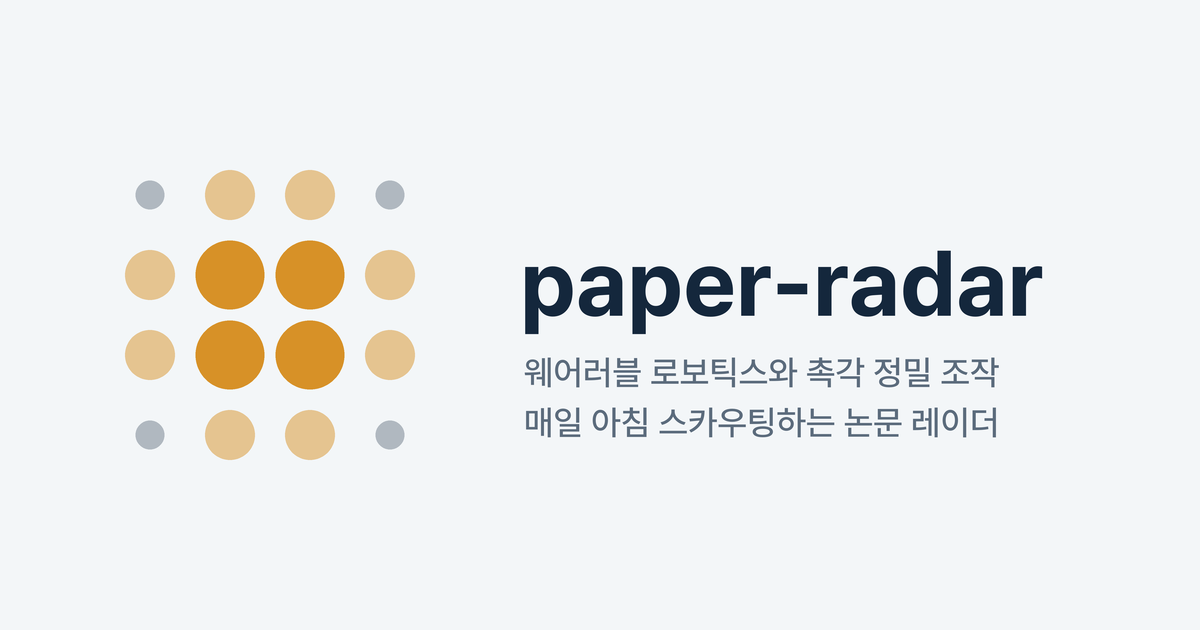
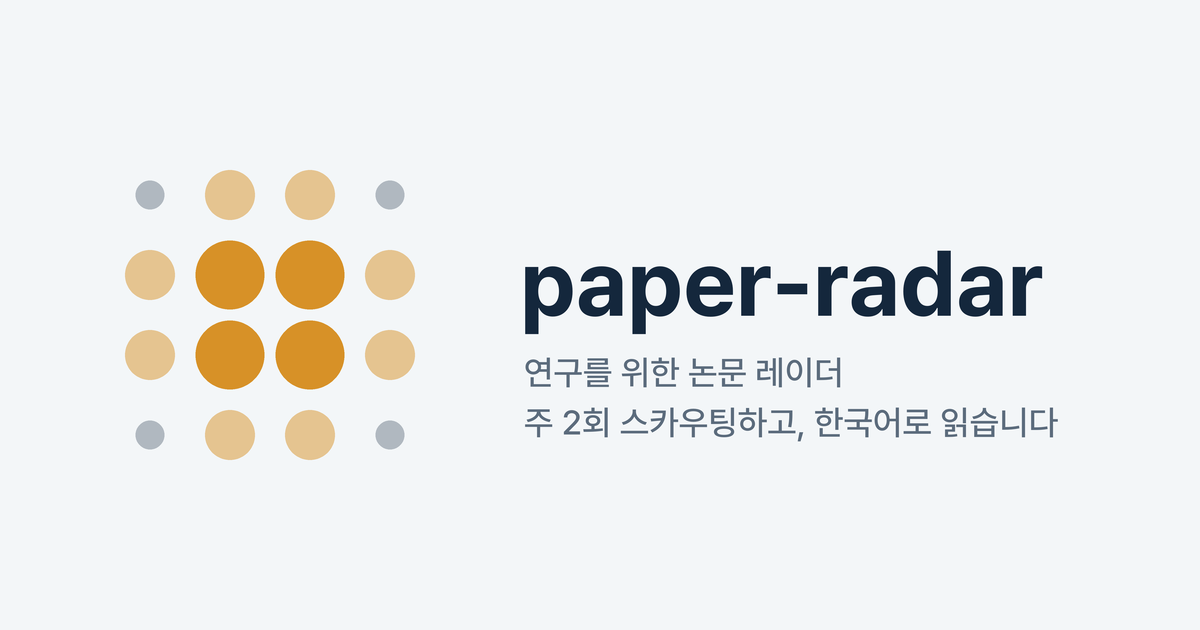
docs: say the scout runs twice a week
The routine now fires on Wednesday and Saturday at 07:00 KST instead of
every day: arXiv announces Monday to Friday, so a daily run mostly found
nothing new past its de-duplication, and two runs a week each gather
three or four days of papers while the 14-day window still overlaps.

- `assets/build-art.py`: the heroes and `own.svg` say twice a week
- `README.md`, `README.ko.md`: the badge, the alt text and the
  what-this-is section name Wednesday and Saturday
- `site/builder/assets/og.png`: the card's lines match the hero

Changed region(s): [[0.4317, 0.5429, 0.8942, 0.6937]]

diff --git a/assets/build-art.py b/assets/build-art.py
@@ -144,16 +144,16 @@ def hero(name_line: str, sub: str, count: str, label: str, button: str, bw: int)
 
 
 def hero_en() -> str:
-    return hero("A literature radar for research.", "Scouted every morning, read in Korean.",
+    return hero("A literature radar for research.", "Scouted twice a week, read in Korean.",
                 "Dozens of new papers a day; a few pressed for you.",
-                "paper-radar — a literature radar for research, scouted every morning and read in Korean. "
+                "paper-radar — a literature radar for research, scouted twice a week and read in Korean. "
                 "Open the reading site.", "Open the reading site", 196)
 
 
 def hero_ko() -> str:
-    return hero("연구를 위한 논문 레이더.", "매일 아침 스카우팅하고, 한국어로 읽습니다.",
+    return hero("연구를 위한 논문 레이더.", "주 2회 스카우팅하고, 한국어로 읽습니다.",
                 "하루 수십 편 가운데, 몇 편만 눌러 둡니다.",
-                "paper-radar — 연구를 위한 논문 레이더. 매일 아침 스카우팅하고, 한국어로 읽습니다. "
+                "paper-radar — 연구를 위한 논문 레이더. 주 2회 스카우팅하고, 한국어로 읽습니다. "
                 "읽기 사이트 열기.", "읽기 사이트 열기", 156)
 
 
@@ -173,7 +173,7 @@ OWN_CSS = f"""
     .wire  {{ fill: none; stroke: ${{FRAME}}; stroke-width: 1.4; stroke-dasharray: 4 5; }}
     .head  {{ fill: ${{FRAME}}; }}"""
 
-FOLDERS = [("scouting/", "every morning"), ("analysis/", "on request"),
+FOLDERS = [("scouting/", "Wed and Sat"), ("analysis/", "on request"),
            ("comparison/", "on request")]
 
 

diff --git a/README.ko.md b/README.ko.md
@@ -1,6 +1,6 @@
 <div align="center">
 
-<a href="https://lastnamesong.github.io/paper-radar/"><picture><source media="(prefers-color-scheme: dark)" srcset="assets/hero-ko-dark.svg"><img src="assets/hero-ko.svg" width="880" alt="paper-radar — 연구를 위한 논문 레이더. 매일 아침 스카우팅하고, 한국어로 읽습니다."></picture></a>
+<a href="https://lastnamesong.github.io/paper-radar/"><picture><source media="(prefers-color-scheme: dark)" srcset="assets/hero-ko-dark.svg"><img src="assets/hero-ko.svg" width="880" alt="paper-radar — 연구를 위한 논문 레이더. 주 2회 스카우팅하고, 한국어로 읽습니다."></picture></a>
 
 [English](README.md) · **한국어**
 
@@ -12,7 +12,7 @@
 
 ![P0](https://img.shields.io/badge/P0-wearables_%26_biomechanics-2E8B7A?style=flat-square)
 ![P1](https://img.shields.io/badge/P1-tactile_%26_dexterous_manipulation-7A5CC2?style=flat-square)
-![Scouting](https://img.shields.io/badge/scouting-daily_07%3A00_KST-555?style=flat-square)
+![Scouting](https://img.shields.io/badge/scouting-Wed_%26_Sat_07%3A00_KST-555?style=flat-square)
 ![Language](https://img.shields.io/badge/reports-한국어-555?style=flat-square)
 
 </div>
@@ -22,7 +22,7 @@
 <br>
 
 **paper-radar**는 하나의 연구 주제, 즉 몸과 손이 접촉을 어떻게 감지하고 그에
-따라 움직이는가를 위한 논문 레이더입니다. 매일 아침 예약된
+따라 움직이는가를 위한 논문 레이더입니다. 매주 수요일과 토요일 아침에 예약된
 [Claude Code](https://claude.com/claude-code) 루틴이 arXiv와 Semantic
 Scholar에서 최근 2주의 논문을 훑고, `context/`에 적힌 열린 결정들을 기준으로
 점수를 매긴 뒤, 연구 분야마다 한국어 리포트를 하나씩 커밋합니다.

diff --git a/README.md b/README.md
@@ -1,6 +1,6 @@
 <div align="center">
 
-<a href="https://lastnamesong.github.io/paper-radar/"><picture><source media="(prefers-color-scheme: dark)" srcset="assets/hero-dark.svg"><img src="assets/hero.svg" width="880" alt="paper-radar — a literature radar for research, scouted every morning and read in Korean."></picture></a>
+<a href="https://lastnamesong.github.io/paper-radar/"><picture><source media="(prefers-color-scheme: dark)" srcset="assets/hero-dark.svg"><img src="assets/hero.svg" width="880" alt="paper-radar — a literature radar for research, scouted twice a week and read in Korean."></picture></a>
 
 **English** · [한국어](README.ko.md)
 
@@ -12,7 +12,7 @@
 
 ![P0](https://img.shields.io/badge/P0-wearables_%26_biomechanics-2E8B7A?style=flat-square)
 ![P1](https://img.shields.io/badge/P1-tactile_%26_dexterous_manipulation-7A5CC2?style=flat-square)
-![Scouting](https://img.shields.io/badge/scouting-daily_07%3A00_KST-555?style=flat-square)
+![Scouting](https://img.shields.io/badge/scouting-Wed_%26_Sat_07%3A00_KST-555?style=flat-square)
 ![Language](https://img.shields.io/badge/reports-한국어-555?style=flat-square)
 
 </div>
@@ -22,7 +22,7 @@
 <br>
 
 **paper-radar** is the literature radar for one research program: how a body
-or a hand senses contact and acts on it. Every morning a scheduled
+or a hand senses contact and acts on it. Every Wednesday and Saturday morning a scheduled
 [Claude Code](https://claude.com/claude-code) routine sweeps arXiv and
 Semantic Scholar for the last two weeks of papers, scores them against the
 open decisions in `context/`, and commits one Korean report per research area. The
